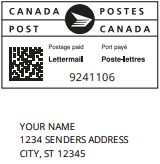
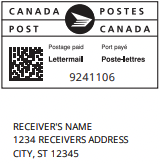
Fix postcard styling.

Changed region(s): [[0.0625, 0.7317, 0.5938, 0.7927], [0.0625, 0.9146, 0.5312, 0.9756], [0.0625, 0.8232, 0.4375, 0.8841]]

diff --git a/src/components/AddressForm.jsx b/src/components/AddressForm.jsx
@@ -31,8 +31,8 @@ function AddressForm(props) {
     }
 
     setPostcardInfo(Object.assign(postcardInfo, {
-      to: sender,
-      from: receiver
+      to: receiver,
+      from: sender
     }))
     localStorage.setItem('postcardInfo', JSON.stringify(postcardInfo))
     setLoading(false)
